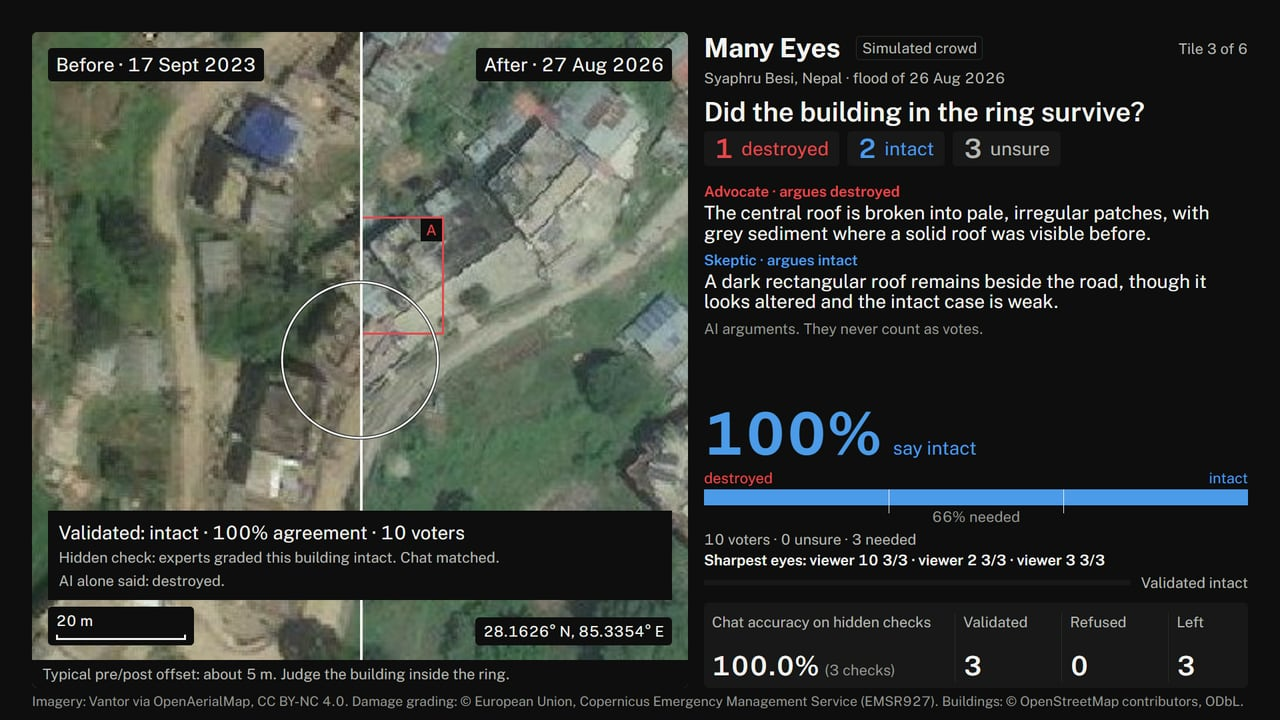
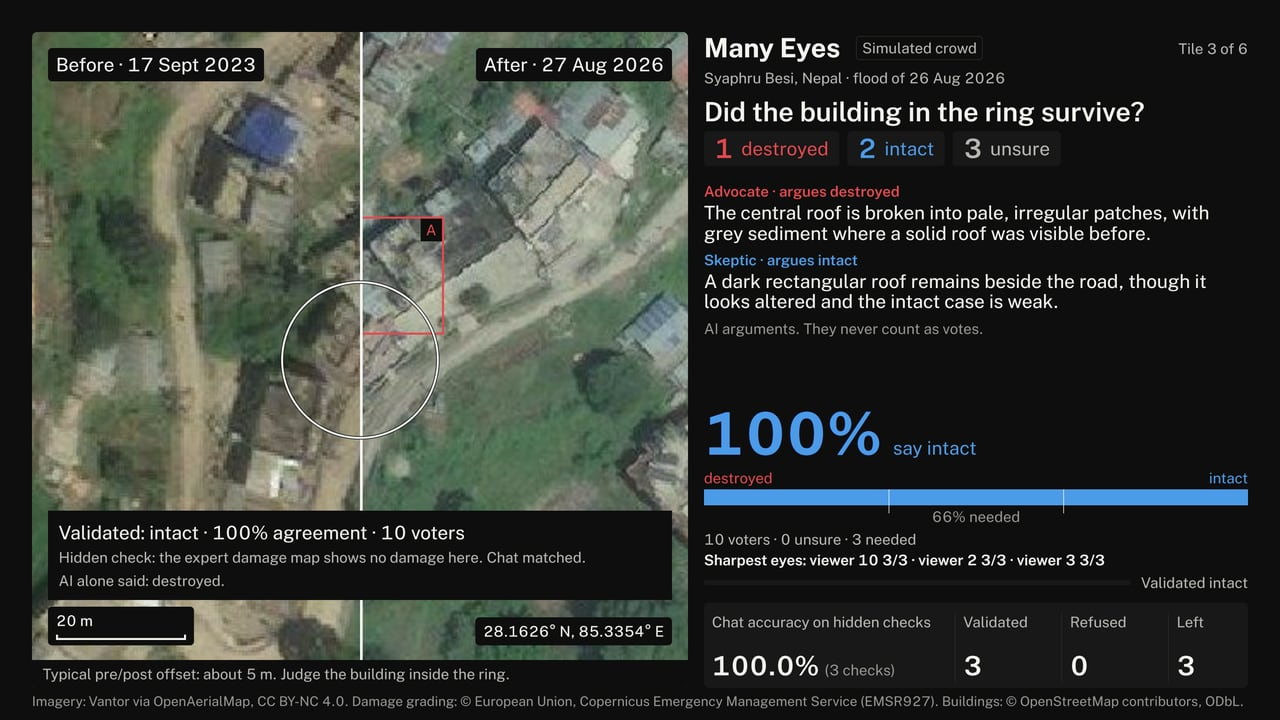
docs: README image shows the corrected hidden-check wording

diff --git a/README.md b/README.md
@@ -4,7 +4,7 @@
 
 Website: https://usv240.github.io/many-eyes/ · Code: https://github.com/usv240/many-eyes · Built for the Codex x TwitchCon Hackathon 2026
 
-![The Many Eyes overlay: before and after photos of one building, two AI debaters, and a validated result where the AI alone said destroyed and the experts graded the building intact](site/public/img/overlay-decided.jpg)
+![The Many Eyes overlay: before and after photos of one building, two AI debaters, and a validated result where the AI alone said destroyed and the expert damage map shows no damage](site/public/img/overlay-decided.jpg)
 
 **Judging in a hurry?** Open the [website](https://usv240.github.io/many-eyes/) and judge six real buildings yourself (no install), or follow [Try it in 2 minutes](#try-it-in-2-minutes-no-keys-needed) and open http://localhost:5180 (no keys needed). Codex built the core in session `01a18e68-04f2-73b0-b14f-b84aa906c1c5`; see [How it was built](#how-it-was-built).
 
